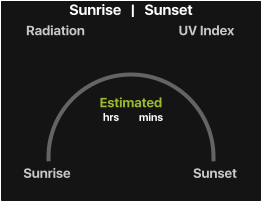
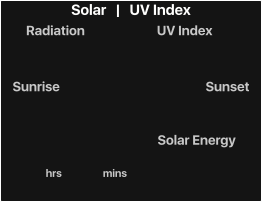
Initial work on new Solar/UV panel including day/night bar

diff --git a/lib/astronomical.py b/lib/astronomical.py
@@ -59,6 +59,13 @@ def SunriseSunset(astroData,Config):
         # Define Sunrise/Sunset times in Station timezone
         astroData['Sunrise'][0] = Sunrise.astimezone(Tz)
         astroData['Sunset'][0] = Sunset.astimezone(Tz)
+        
+        # Calculate length and position of the day line on the daytime/nightime 
+        # bar
+        sunriseMidnight = (astroData['Sunrise'][0].hour*3600 + astroData['Sunrise'][0].minute*60)
+        sunsetMidnight = (astroData['Sunset'][0].hour*3600 + astroData['Sunset'][0].minute*60)
+        astroData['Sunrise'][2] = (sunriseMidnight/86400)
+        astroData['Sunset'][2] = ((sunsetMidnight-sunriseMidnight)/86400)
 
     # Sunset has passed. Calculate sunset/sunrise times for tomorrow starting at
     # time of last Sunset in UTC
@@ -79,6 +86,13 @@ def SunriseSunset(astroData,Config):
         # Define Sunrise/Sunset times in Station timezone
         astroData['Sunrise'][0] = Sunrise.astimezone(Tz)
         astroData['Sunset'][0] = Sunset.astimezone(Tz)
+        
+        # Calculate length and position of the day line on the daytime/nightime 
+        # bar
+        sunriseMidnight = (astroData['Sunrise'][0].hour*3600 + astroData['Sunrise'][0].minute*60)
+        sunsetMidnight = (astroData['Sunset'][0].hour*3600 + astroData['Sunset'][0].minute*60)
+        astroData['Sunrise'][2] = (sunriseMidnight/86400)
+        astroData['Sunset'][2] = ((sunsetMidnight-sunriseMidnight)/86400)
 
     # Format sunrise/sunset labels based on date of next sunrise
     astroData = Format(astroData,Config,'Sun')
@@ -239,31 +253,32 @@ def sunTransit(astroData, Config, *largs):
     # Get current time in station time zone
     Tz = pytz.timezone(Config['Station']['Timezone'])
     Now = datetime.now(pytz.utc).astimezone(Tz)
+    
+    # Calculate sun icon position on daytime/nightime bar
+    secondsMidnight = (Now.replace(microsecond=0) - Now.replace(hour=0, minute=0, second=0, microsecond=0)).total_seconds()
+    astroData['sunPosition'] = (secondsMidnight/86400)
 
-    # If time is between sunrise and sun set, calculate sun
-    # transit angle
+
+    
+
+    # If time is between sunrise and sun set, calculate number of daylight hours 
+    # remaining
     if Now >= astroData['Sunrise'][0] and Now <= astroData['Sunset'][0]:
 
-        # Determine total length of daylight, amount of daylight
-        # that has passed, and amount of daylight left
+        # Determine total length of daylight, amount of daylight that has passed
+        # and amount of daylight left
         DaylightTotal = astroData['Sunset'][0] - astroData['Sunrise'][0]
         DaylightLapsed = Now - astroData['Sunrise'][0]
         DaylightLeft = astroData['Sunset'][0] - Now
-
-        # Determine sun transit angle
-        Angle = DaylightLapsed.total_seconds() / DaylightTotal.total_seconds() * 180
-        Angle = int(Angle*10)/10.0
 
         # Determine hours and minutes left until sunset
         hours,remainder = divmod(DaylightLeft.total_seconds(), 3600)
         minutes,seconds = divmod(remainder,60)
 
         # Define Kivy Label binds
-        astroData['SunAngle'] = '{:.1f}'.format(Angle)
-        astroData['sunEvent'] = ['Till [color=f05e40ff]Sunset[/color]','{:02.0f}'.format(hours),'{:02.0f}'.format(minutes)]
+        astroData['sunEvent'] = ['[color=f05e40ff]Sunset[/color]','{:02.0f}'.format(hours),'{:02.0f}'.format(minutes),'Daytime']
 
-    # When not daylight, set sun transit angle to building
-    # value. Define time until sunrise
+    # When not daylight, calculate time until sunrise
     elif Now <= astroData['Sunrise'][0]:
 
         # Determine hours and minutes left until sunrise
@@ -272,8 +287,7 @@ def sunTransit(astroData, Config, *largs):
         minutes,seconds = divmod(remainder,60)
 
         # Define Kivy Label binds
-        astroData['SunAngle'] = '-'
-        astroData['sunEvent'] = ['Till [color=f0b240ff]Sunrise[/color]','{:02.0f}'.format(hours),'{:02.0f}'.format(minutes)]
+        astroData['sunEvent'] = ['[color=f0b240ff]Sunrise[/color]','{:02.0f}'.format(hours),'{:02.0f}'.format(minutes),'Nightime']
 
     # Return dictionary containing sun transit data
     return astroData

diff --git a/main.py b/main.py
@@ -182,10 +182,10 @@ class wfpiconsole(App):
                               ('Strikes3hr','-'),      ('StrikesToday','-'), ('StrikesMonth','-'),
                               ('StrikesYear','-')
                              ])
-    Astro = DictProperty    ([('Sunrise',['-','-']),   ('Sunset',['-','-']), ('sunEvent',['-','-','-']),
-                              ('SunAngle','-'),        ('ValidDate','--'),   ('Moonrise',['-','-']),
-                              ('Moonset',['-','-']),   ('NewMoon','--'),     ('FullMoon','--'),
-                              ('Phase','---')
+    Astro = DictProperty    ([('Sunrise',['-','-',0]), ('Sunset',['-','-',0]),('sunEvent','----'),
+                              ('sunPosition',0),       ('ValidDate','--'),    ('Moonrise',['-','-']),
+                              ('Moonset',['-','-']),   ('NewMoon','--'),      ('FullMoon','--'),
+                              ('Phase','---'),
                              ])
     MetData = DictProperty  ([('Weather','Building'),   ('Temp','--'),         ('Precip','--'),
                               ('WindSpd','--'),         ('WindDir','--'),      ('Valid','--')
@@ -226,7 +226,7 @@ class wfpiconsole(App):
         forecast.Download(self.MetData,self.config)
 
         # Generate Sager Weathercaster forecast
-        thread = Thread(target=sagerForecast.Generate, args=(self.Sager,self.config), name="Sager").start()
+        #thread = Thread(target=sagerForecast.Generate, args=(self.Sager,self.config), name="Sager").start()
 
         # Initialise websocket connection
         self.WebsocketConnect()
@@ -235,7 +235,7 @@ class wfpiconsole(App):
         Clock.schedule_interval(self.UpdateMethods,1.0)
         Clock.schedule_interval(partial(astro.sunTransit,self.Astro,self.config),1.0)
         Clock.schedule_interval(partial(astro.moonPhase ,self.Astro,self.config),1.0)
-        Clock.schedule_once(lambda dt: system.checkVersion(self.Version,self.config,updateNotif))  
+        #Clock.schedule_once(lambda dt: system.checkVersion(self.Version,self.config,updateNotif))  
 
     # BUILD 'WeatherFlowPiConsole' APP CLASS SETTINGS
     # --------------------------------------------------------------------------

diff --git a/lib/derivedVariables.py b/lib/derivedVariables.py
@@ -969,13 +969,13 @@ def UVIndex(uvLevel):
     Level   = ['None','Low','Moderate','High','Very High','Extreme']
     
     # Define UV index colours
-    White  = [1,1,1,1] 
+    Grey   = [100/255,100/255,100/255,1] 
     Green  = [155/255,188/255, 47/255,1]
     Yellow = [230/255,162/255, 65/255,1]
     Orange = [216/255,112/255, 64/255,1]
     Red    = [230/255, 75/255, 36/255,1]
     Violet = [134/255,128/255,188/255,1]
-    Color  = [White,Green,Yellow,Orange,Red,Violet]
+    Color  = [Grey,Green,Yellow,Orange,Red,Violet]
 
     # Set the UV index
     if math.isnan(uvLevel[0]):
